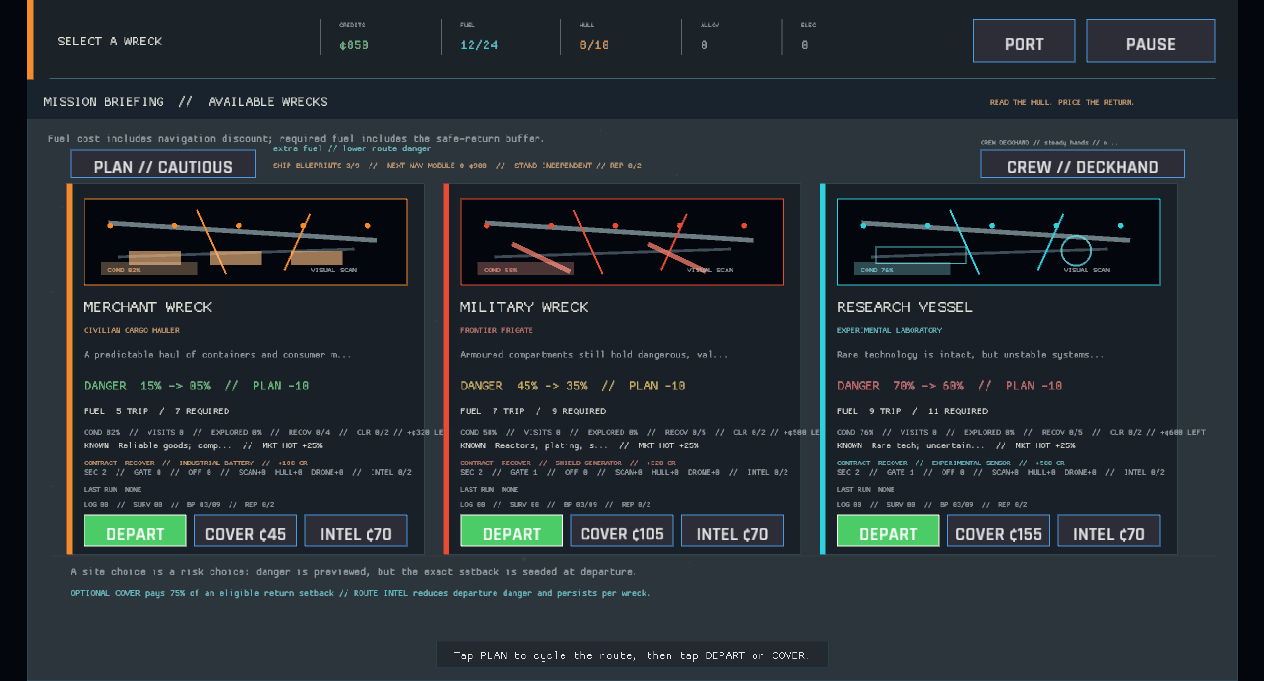
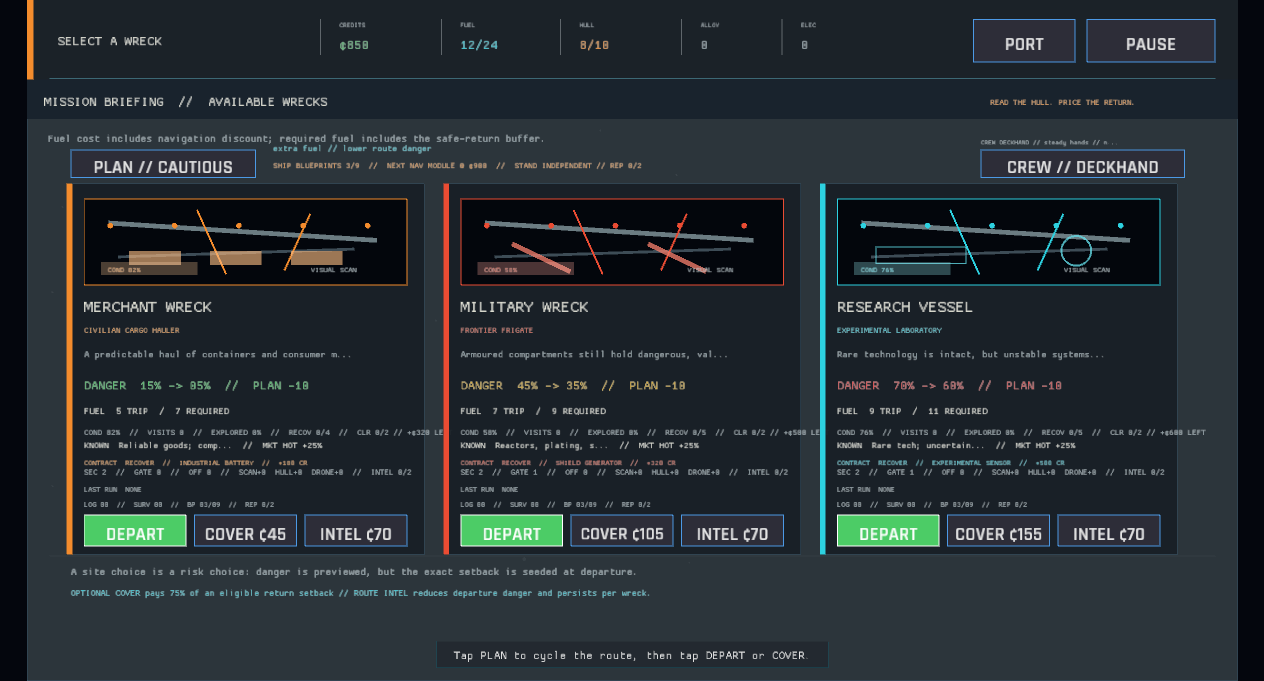
The hands come home tired and take shore leave (crew readiness system)
Completed runs now leave deterministic fatigue from setbacks, external loading, and field power cycles. Fatigue adds a bounded route-danger adjustment, persists safely with migration validation, and the port provides a visible REST action that restores readiness before departure. The required Windows and WebGL publisher pass completed and deployed, with the local Project Roost tracker warning only.

diff --git a/src/state/crew_readiness/tests.rs b/src/state/crew_readiness/tests.rs
@@ -1,0 +1,58 @@
+use super::*;
+use crate::data::GameData;
+
+#[test]
+fn hard_runs_leave_a_bounded_readiness_load() {
+    assert_eq!(fatigue_gain(RiskOutcome::OrdinaryReturn, 0, 0), 8);
+    assert_eq!(fatigue_gain(RiskOutcome::EmergencyRepair, 3, 1), 27);
+    assert_eq!(fatigue_gain(RiskOutcome::ForcedAbandon, 9, 1), 37);
+    assert_eq!(fatigue_gain(RiskOutcome::OrdinaryReturn, 99, 9), 21);
+}
+
+#[test]
+fn crew_readiness_adds_small_route_pressure_until_rest() {
+    let data = GameData::load().expect("game data");
+    let mut session = GameSession::new(&data);
+
+    assert_eq!(session.crew_fatigue(), 0);
+    assert_eq!(session.crew_readiness(), 100);
+    assert_eq!(session.crew_fatigue_danger_delta(), 0);
+    session.register_crew_fatigue(RiskOutcome::DamagedModule, 2, 1);
+    assert_eq!(session.crew_fatigue(), 21);
+    assert_eq!(session.crew_readiness(), 79);
+    assert_eq!(session.crew_fatigue_danger_delta(), 2);
+    assert_eq!(session.crew_adjusted_danger(45), 47);
+    assert!(session.rest_crew().unwrap().contains("Readiness 100%"));
+    assert_eq!(session.crew_fatigue(), 0);
+}
+
+#[test]
+fn crew_cannot_rest_during_an_unresolved_expedition() {
+    let data = GameData::load().expect("game data");
+    let mut session = GameSession::new(&data);
+    session.expedition = Some(crate::state::ExpeditionState {
+        site_id: "merchant_wreck".to_owned(),
+        cargo: Vec::new(),
+        risk: crate::engine::RiskResult {
+            outcome: RiskOutcome::OrdinaryReturn,
+            danger_score: 0,
+            explanation: String::new(),
+        },
+        seed: 1,
+        workspace_section: "cargo_bay".to_owned(),
+        workspace_scanned: false,
+        revealed_targets: Vec::new(),
+        stabilized_targets: Vec::new(),
+        scan_profile: crate::state::WorkspaceScanProfile::Standard,
+        drones_deployed: false,
+        drone_directive: crate::state::DroneDirective::Standby,
+        workspace_energy: 1,
+        workspace_energy_capacity: 1,
+        power_cycles_used: 0,
+        insured: false,
+        voyage_plan: crate::engine::VoyagePlan::Standard,
+        return_policy: crate::state::ReturnPolicy::default(),
+    });
+
+    assert!(session.rest_crew().unwrap_err().contains("safe port"));
+}

diff --git a/src/state/crew_readiness.rs b/src/state/crew_readiness.rs
@@ -1,0 +1,64 @@
+//! Persistent crew readiness: hard runs leave the hands tired until shore leave.
+
+use super::GameSession;
+use crate::engine::RiskOutcome;
+
+pub const MAX_CREW_FATIGUE: u8 = 100;
+
+pub fn fatigue_gain(outcome: RiskOutcome, external_load: i32, power_cycles_used: u8) -> u8 {
+    let outcome_load = match outcome {
+        RiskOutcome::OrdinaryReturn => 8,
+        RiskOutcome::DamagedModule => 14,
+        RiskOutcome::LostSalvage | RiskOutcome::EmergencyRepair => 18,
+        RiskOutcome::ForcedAbandon => 24,
+    };
+    let cargo_load = external_load.max(0).min(5) * 2;
+    let power_load = i32::from(power_cycles_used.min(1)) * 3;
+    (outcome_load + cargo_load + power_load).clamp(0, i32::from(MAX_CREW_FATIGUE)) as u8
+}
+
+impl GameSession {
+    pub fn crew_fatigue(&self) -> u8 {
+        self.crew_fatigue.min(MAX_CREW_FATIGUE)
+    }
+
+    pub fn crew_readiness(&self) -> u8 {
+        MAX_CREW_FATIGUE - self.crew_fatigue()
+    }
+
+    pub fn crew_fatigue_danger_delta(&self) -> i32 {
+        i32::from(self.crew_fatigue()) / 10
+    }
+
+    pub fn crew_danger_delta(&self) -> i32 {
+        self.crew_role().danger_delta() + self.crew_fatigue_danger_delta()
+    }
+
+    pub fn register_crew_fatigue(
+        &mut self,
+        outcome: RiskOutcome,
+        external_load: i32,
+        power_cycles_used: u8,
+    ) -> u8 {
+        let gain = fatigue_gain(outcome, external_load, power_cycles_used);
+        self.crew_fatigue = self
+            .crew_fatigue()
+            .saturating_add(gain)
+            .min(MAX_CREW_FATIGUE);
+        gain
+    }
+
+    pub fn rest_crew(&mut self) -> Result<String, String> {
+        if self.expedition.is_some() || !self.returned.is_empty() {
+            return Err("the crew can take shore leave only at the safe port".to_owned());
+        }
+        if self.crew_fatigue() == 0 {
+            return Ok("Crew already rested. Readiness 100%.".to_owned());
+        }
+        self.crew_fatigue = 0;
+        Ok("Crew rested at the safe port. Readiness 100%; route watch restored.".to_owned())
+    }
+}
+
+#[cfg(test)]
+mod tests;

diff --git a/src/ui/crew_panel.rs b/src/ui/crew_panel.rs
@@ -28,6 +28,16 @@ pub fn draw_port_control(ctx: &UiContext<'_>, actions: &mut Vec<UiAction>) {
         ),
         actions,
     );
+    draw_rest_control(
+        ctx,
+        Rect::new(
+            width - 238.0,
+            crate::ui::port_panel::HEADER_HEIGHT + 108.0,
+            100.0,
+            28.0,
+        ),
+        actions,
+    );
 }
 
 fn draw_assignment_button(ctx: &UiContext<'_>, rect: Rect, actions: &mut Vec<UiAction>) {
@@ -42,8 +52,34 @@ fn draw_assignment_button(ctx: &UiContext<'_>, rect: Rect, actions: &mut Vec<UiA
     }
 }
 
+fn draw_rest_control(ctx: &UiContext<'_>, rect: Rect, actions: &mut Vec<UiAction>) {
+    let fatigue = ctx.session.crew_fatigue();
+    let label = rest_button_label(ctx.session.crew_readiness());
+    if button(
+        ctx,
+        rect,
+        &label,
+        fatigue > 0,
+        if fatigue > 0 {
+            ButtonTone::Warning
+        } else {
+            ButtonTone::Secondary
+        },
+    ) {
+        actions.push(UiAction::RestCrew);
+    }
+}
+
 fn crew_button_label(role: crate::state::CrewRole) -> String {
     format!("CREW  //  {}", role.short_label())
+}
+
+fn rest_button_label(readiness: u8) -> String {
+    if readiness >= 100 {
+        "RESTED".to_owned()
+    } else {
+        format!("REST  //  {readiness}%")
+    }
 }
 
 fn crew_color(role: CrewRole) -> Color {

diff --git a/src/state.rs b/src/state.rs
@@ -3,6 +3,7 @@
 pub mod career;
 pub mod contracts;
 pub mod crew;
+pub mod crew_readiness;
 pub mod drone_directive;
 pub mod expedition;
 mod expedition_state;
@@ -200,6 +201,8 @@ pub struct GameSession {
     #[serde(default)]
     pub crew_role: CrewRole,
     #[serde(default)]
+    pub crew_fatigue: u8,
+    #[serde(default)]
     pub last_return_policy: ReturnPolicy,
     pub unlocked_modules: Vec<String>,
     pub milestone_reached: bool,
@@ -282,6 +285,7 @@ impl GameSession {
             voyage_log: Vec::new(),
             career: CareerStats::default(),
             crew_role: CrewRole::default(),
+            crew_fatigue: 0,
             last_return_policy: ReturnPolicy::default(),
             unlocked_modules,
             milestone_reached: false,
@@ -312,6 +316,9 @@ impl GameSession {
             || session.ship_layout.height != data.config.grid_height
         {
             return Err("save uses an incompatible ship grid".to_owned());
+        }
+        if session.crew_fatigue > crew_readiness::MAX_CREW_FATIGUE {
+            return Err("save contains invalid crew fatigue".to_owned());
         }
         if session.economy.credits < 0
             || session.economy.fuel < 0

diff --git a/src/state/crew.rs b/src/state/crew.rs
@@ -115,7 +115,7 @@ impl GameSession {
     }
 
     pub fn crew_adjusted_danger(&self, danger: i32) -> i32 {
-        (danger + self.crew_role.danger_delta()).clamp(0, 100)
+        (danger + self.crew_danger_delta()).clamp(0, 100)
     }
 
     pub fn crew_external_capacity(&self) -> i32 {
@@ -129,14 +129,20 @@ impl GameSession {
     pub fn crew_briefing_label(&self, data: &GameData) -> String {
         let role = self.crew_role;
         if role != CrewRole::Rigger {
-            return format!("CREW {} // {}", role.short_label(), role.description());
+            return format!(
+                "CREW {} // {} // READY {}%",
+                role.short_label(),
+                role.description(),
+                self.crew_readiness()
+            );
         }
         let capacity = self.external_capacity(data);
         format!(
-            "CREW {} // {} // CLAMPS {}",
+            "CREW {} // {} // CLAMPS {} // READY {}%",
             role.short_label(),
             role.description(),
-            capacity
+            capacity,
+            self.crew_readiness()
         )
     }
 }

diff --git a/src/state/salvage_packing.rs b/src/state/salvage_packing.rs
@@ -105,6 +105,11 @@ impl GameSession {
             .take()
             .ok_or_else(|| "there is no active expedition".to_owned())?;
         self.last_return_policy = return_policy;
+        let fatigue_gain = self.register_crew_fatigue(
+            expedition.risk.outcome,
+            external_load,
+            expedition.power_cycles_used,
+        );
         let reconnaissance_level = self.reconnaissance_level(&expedition.site_id);
         let insured = expedition.insured;
         let insurance_premium = if insured {
@@ -121,6 +126,10 @@ impl GameSession {
             message.push_str(&format!(" External load added +{strain} risk."));
         }
         message.push_str(&format!(" Return policy: {}.", return_policy.label()));
+        message.push_str(&format!(
+            " Crew fatigue +{fatigue_gain}; readiness {}%.",
+            self.crew_readiness()
+        ));
         match expedition.risk.outcome {
             RiskOutcome::OrdinaryReturn => {}
             RiskOutcome::DamagedModule => {

diff --git a/src/state/insurance.rs b/src/state/insurance.rs
@@ -21,7 +21,7 @@ impl GameSession {
     ) -> Option<InsuranceQuote> {
         if plan == VoyagePlan::Standard
             && self.reconnaissance_level(site_id) == 0
-            && self.crew_role().danger_delta() == 0
+            && self.crew_danger_delta() == 0
         {
             return self.insurance_quote(site_id, data);
         }
@@ -55,7 +55,7 @@ impl GameSession {
     ) -> bool {
         if plan == VoyagePlan::Standard
             && self.reconnaissance_level(site_id) == 0
-            && self.crew_role().danger_delta() == 0
+            && self.crew_danger_delta() == 0
         {
             return self.can_depart_insured(site_id, data);
         }

diff --git a/src/state/tests.rs b/src/state/tests.rs
@@ -151,6 +151,17 @@ fn save_rejects_invalid_workspace_power_reserve() {
 }
 
 #[test]
+fn save_rejects_invalid_crew_fatigue() {
+    let data = GameData::load().unwrap();
+    let mut session = GameSession::new(&data);
+    session.crew_fatigue = crate::state::crew_readiness::MAX_CREW_FATIGUE + 1;
+
+    let error = GameSession::from_save(session.to_save(&data.config.version), &data).unwrap_err();
+
+    assert!(error.contains("crew fatigue"));
+}
+
+#[test]
 fn installed_module_can_be_removed_at_port() {
     let data = GameData::load().unwrap();
     let mut session = GameSession::new(&data);

diff --git a/src/state/ledger/tests.rs b/src/state/ledger/tests.rs
@@ -106,7 +106,14 @@ fn closing_a_run_appends_a_ledger_entry() {
     assert_eq!(record.condition_after, 64);
     assert!(!record.contract_completed);
     assert_eq!(record.scan_profile, WorkspaceScanProfile::Standard);
+    let expected_fatigue = crate::state::crew_readiness::fatigue_gain(
+        record.risk_outcome,
+        record.external_load as i32,
+        0,
+    );
+    assert_eq!(session.crew_fatigue(), expected_fatigue);
     assert!(message.contains("Commendation filed: FIRST RETURN."));
+    assert!(message.contains("Crew fatigue +"));
 }
 
 #[test]

diff --git a/src/game.rs b/src/game.rs
@@ -454,6 +454,10 @@ impl Game {
             }
             UiAction::CycleVoyagePlan => briefing::cycle_plan(self),
             UiAction::CycleCrew => briefing::cycle_crew(self),
+            UiAction::RestCrew => match self.session.rest_crew() {
+                Ok(message) => self.note(message),
+                Err(error) => self.note(error),
+            },
             UiAction::CycleReturnPolicy => briefing::cycle_return_policy(self),
             UiAction::ContinueTravel => {
                 if self.state == GameState::Travel {

diff --git a/src/ui/travel.rs b/src/ui/travel.rs
@@ -425,7 +425,7 @@ fn travel_danger_label_with_plan(
     let route_danger = travel_departure_danger_with_plan(site, session, data, voyage_plan);
     let level = session.reconnaissance_level(&site.id);
     let plan_delta = voyage_plan.danger_delta(&data.config.voyage_plan);
-    let crew_delta = session.crew_role().danger_delta();
+    let crew_delta = session.crew_danger_delta();
     if level == 0 && plan_delta == 0 && crew_delta == 0 {
         format!("DANGER {:02}%", site.danger)
     } else {

diff --git a/src/ui/site_cards.rs b/src/ui/site_cards.rs
@@ -517,7 +517,7 @@ fn site_danger_label(
     let level = session.reconnaissance_level(&site.id);
     let danger = site_departure_danger(site, session, data, voyage_plan);
     let plan_delta = voyage_plan.danger_delta(&data.config.voyage_plan);
-    let crew_delta = session.crew_role().danger_delta();
+    let crew_delta = session.crew_danger_delta();
     if level == 0 && plan_delta == 0 && crew_delta == 0 {
         format!("DANGER  {:02}%", site.danger)
     } else {
